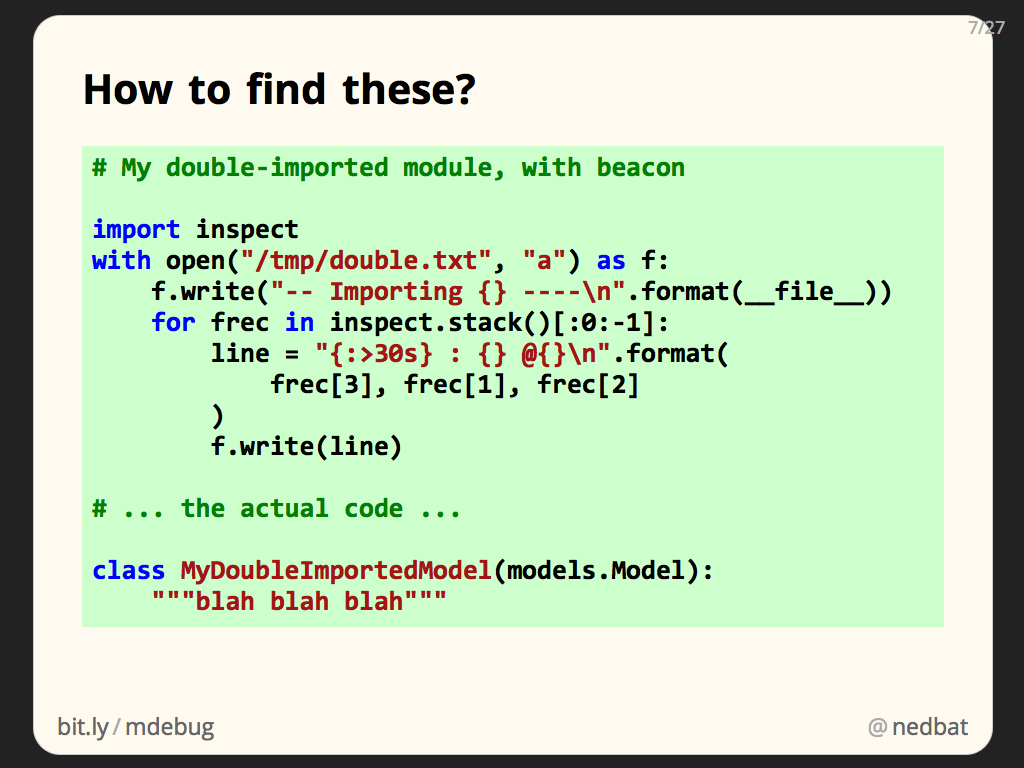
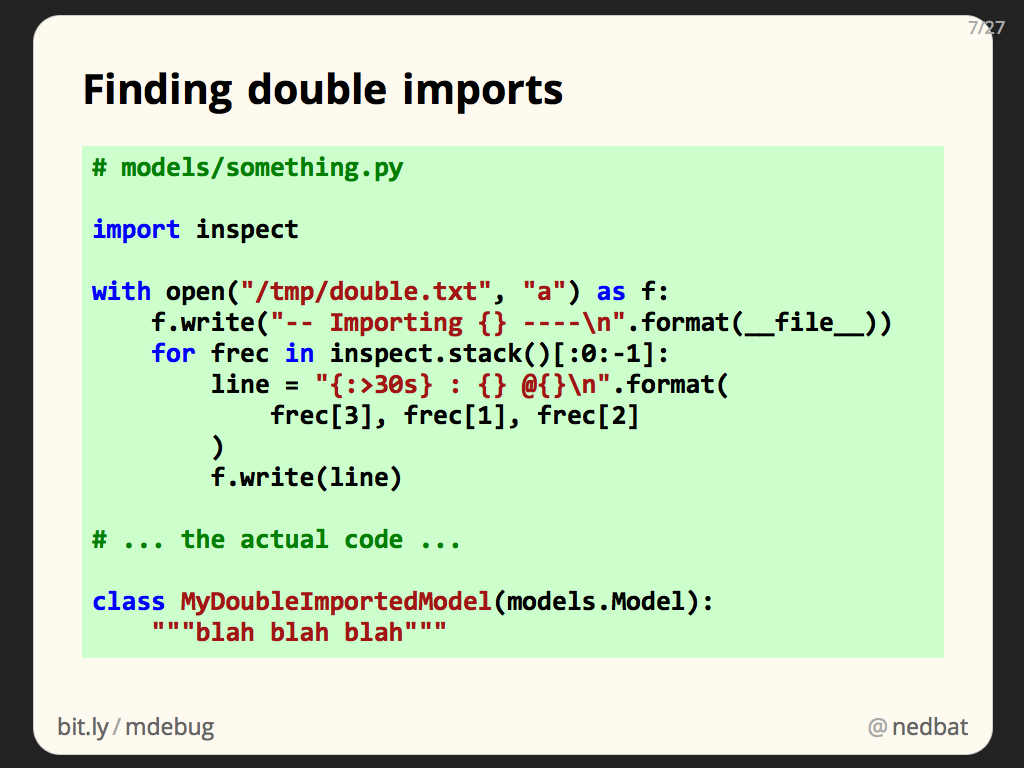
Edits from the plane

Changed region(s): [[0.0625, 0.3125, 0.9375, 0.875], [0.125, 0.1875, 0.6562, 0.25], [0.0938, 0.0938, 0.5625, 0.1562]]

diff --git a/pages/text/machete/machete.html b/pages/text/machete/machete.html
@@ -67,10 +67,12 @@
                 });
             }
 
+            // Syntax-color the preformatted blocks.
             $('pre').each(function (i, block) {
                 hljs.highlightBlock(block, '    ');
             });
 
+            // Convert each preformatted block into a series of span.line's.
             $('pre').each(function (i, e) {
                 var $e = $(e);
                 var h = $e.html();
@@ -80,6 +82,24 @@
                 $e.html(h);
             });
 
+            // Remove the line class in faded code blocks, except for those marked dark.
+            $("pre.fade span.line").each(function (i, e) {
+                var $e = $(e);
+                var dark = $e.find(".dark");
+                if (dark.length == 0) {
+                    $e.removeClass("line");
+                }
+            });
+
+            // Remove the .line class from blank lines, they aren't interesting to highlight.
+            $("pre span.line").each(function (i, e) {
+                var $e = $(e);
+                if ($e.text().trim().length == 0) {
+                    $e.removeClass("line");
+                }
+            });
+
+            // Make all the code block lines be selectable.
             $("div.slide").lineselect({ lines: "pre span.line" });
 
             // Pre-select lines based on a select= attribute.
@@ -211,7 +231,7 @@
             color: #999;
         }
 
-        pre .red {
+        pre .dark.red {
             color: #f00;
         }
 
@@ -482,11 +502,12 @@ understand it.</p>
 </div><!-- }}} -->
 
 <div class="slide">
-    <h1>How to find these?</h1>
+    <h1>Finding double imports</h1>
     <pre class="python">
-    # My double-imported module, with beacon
+    # models/something.py
 
     import inspect
+
     with open("/tmp/double.txt", "a") as f:
         f.write("-- Importing {} ----\n".format(__file__))
         for frec in inspect.stack()[:0:-1]:
@@ -544,32 +565,7 @@ with the right ways, and this code is only temporary.</p>
 <div class="slide">
     <h1>Results</h1>
 
-    <div style="position: relative">    <!-- make the containing divs appear in the same place. -->
-    <pre class="smaller lang-text" style="position: absolute">
-    -- Importing project/thing/apps/first/models.py ----
-                &lt;module> : manage.py @112
-                     run : project/thing/startup.py @50
-                   setup : django/__init__.py @18
-                populate : django/apps/registry.py @108
-           import_models : django/apps/config.py @198
-           import_module : /usr/lib/python2.7/importlib/__init__.py @37
-                &lt;module> : project/other/apps/one/compute.py @36
-                &lt;module> : project/thing/apps/second/courses.py @25
-                &lt;module> : project/thing/apps/second/summary.py @18
-
-    -- Importing project/thing/apps/first/models.pyc ----
-                &lt;module> : manage.py @112
-                     run : project/thing/startup.py @50
-                   setup : django/__init__.py @18
-                populate : django/apps/registry.py @115
-                   ready : django/contrib/admin/apps.py @22
-            autodiscover : django/contrib/admin/__init__.py @24
-    autodiscover_modules : django/utils/module_loading.py @74
-           import_module : /usr/lib/python2.7/importlib/__init__.py @37
-                &lt;module> : project/thing/apps/first/admin.py @29
-    </pre>
-
-    <pre class="smaller fade lang-text incremental" style="position: absolute">
+    <pre class="smaller fade lang-text">
     <span class="dark">-- Importing project/thing/apps/first/models.py ----</span>
                 &lt;module> : manage.py @112
                      run : project/thing/startup.py @50
@@ -592,7 +588,6 @@ with the right ways, and this code is only temporary.</p>
            import_module : /usr/lib/python2.7/importlib/__init__.py @37
                 <span class="dark">&lt;module> : project/thing/apps/first/admin.py @29</span>
     </pre>
-    </div>
 </div>
 
 <div class="text"><!-- {{{ -->
@@ -611,46 +606,40 @@ trace: second/summary.py and first/admin.py</p>
 
 
 <div class="slide">
-    <h1>Tangled imports</h1>
+    <h1>Overlapping sys.path</h1>
     <pre class="python incremental">
     import thing.apps.first.models             
                                    import first.models
     </pre>
 
-    <div style="position: static">
-    <div style="position: relative; height: 12em;">
-    <pre class="incremental" style="position: absolute; width:100%">
-    project **
-    ├── thing
-    │   └── apps **
-    │       ├── first/
-    │       │   └── models.py
+    <pre style="float:left; margin-right: 2em; width: 45%" class="fade incremental">
+    <span class="dark red">project **</span>
+    ├── <span class="dark">thing</span>
+    │   └── <span class="dark">apps</span> **
+    │       ├── <span class="dark">first</span>/
+    │       │   └── <span class="dark">models.py</span>
     │       └── second/
     └── other
         └── apps **
             └── one/
     </pre>
-    <!-- ugh, what a pain... -->
-    <pre class="fade incremental" style="position: absolute">
-    <span class="red">project</span> <span class="red">**</span>                     project **
-    ├── <span class="dark">thing</span>                      ├── thing
-    │   └── <span class="dark">apps</span> **                │   └── <span class="red">apps</span> <span class="red">**</span>
-    │       ├── <span class="dark">first</span>/             │       ├── <span class="dark">first</span>/
-    │       │   └── <span class="dark">models.py</span>      │       │   └── <span class="dark">models.py</span>
-    │       └── second/            │       └── second/
-    └── other                      └── other
-        └── apps **                    └── apps **
-            └── one/                       └── one/
-    </pre>
-    </div>
-    </div>
 
-    <div style="position: static">
+    <pre class="fade incremental">
+    project **
+    ├── thing
+    │   └── <span class="dark red">apps **</span>
+    │       ├── <span class="dark">first</span>/
+    │       │   └── <span class="dark">models.py</span>
+    │       └── second/
+    └── other
+        └── apps **
+            └── one/
+    </pre>
+
     <pre class="python incremental" >
     sys.path.append("thing/apps")
     sys.path.append("other/apps")
     </pre>
-    </div>
 
 </div>
 
@@ -786,6 +775,7 @@ essentially arbitrary anyway, so we can write information there.</p>
     </pre>
     <ul>
     <li class="incremental"><b>Any</b> name can be re-assigned</li>
+    <li class="incremental"><b>Very</b> chaotic</li>
     </ul>
 </div>
 
@@ -818,9 +808,9 @@ other parts of your program are using.  It can also be dangerously chaotic.</p>
 <div class="slide">
     <h1>Read the source!</h1>
     <ul>
-    <li class="incremental">A handful of different functions</li>
-    <li class="incremental">We only want to tweak the file names</li>
-    <li class="incremental">They all call <span class="code">_get_candidate_names</span></li>
+    <li class="incremental">Handful of different functions</li>
+    <li class="incremental">Only want to tweak the file names</li>
+    <li class="incremental"><span class="code">_get_candidate_names</span></li>
     </ul>
     <pre class="python incremental">
     # Lib/tempfile.py
@@ -830,6 +820,12 @@ other parts of your program are using.  It can also be dangerously chaotic.</p>
         names = _get_candidate_names()  # ☜ AHA! ☜
         for name in names:
             # ... try making the file ...
+    </pre>
+    <pre class="incremental">
+        Mp4lll
+            QJmhMA
+                N9UYmz
+                    qqdTX3 ....
     </pre>
 </div>
 
@@ -858,12 +854,13 @@ the files, or what details they return.</p>
 <div class="slide">
     <h1>Running code on startup</h1>
     <ul>
+    <li class="incremental">Have to monkeypatch early</li>
     <li class="incremental">Python has no feature</li>
     <li class="incremental">site-packages/*.pth</li>
     </ul>
     <pre class="incremental python">
     # Lib/site.py, in the stdlib
-    ...
+
     for line in the_pth_file:
         if line.startswith("import "):
             exec line
@@ -913,14 +910,13 @@ code is run even before other .pth files are processed.</p>
 <div class="slide">
     <h1>The sneak</h1>
     <pre class="python">
+    # first_thing.py
     real_get_candidate_names = tempfile._get_candidate_names
 
     def my_get_candidate_names():
         stack = "-".join(
-            "{}{}".format(
-                os.path.basename(t[1]).replace(".py", ""),
-                t[2],
-            )
+            os.path.basename(t[1]).replace(".py", "") + 
+                str(t[2])
             for t in inspect.stack()[4:1:-1]
         )
         for name in real_get_candidate_names():
@@ -953,7 +949,7 @@ that makes temporary files will have our stack traces in their file names.</p>
     <h1><span class="fist">☞</span> Lessons <span class="fist">☜</span></h1>
     <ul>
     <li class="incremental">Std lib is readable</li>
-    <li class="incremental">Std lib is patchable!</li>
+    <li class="incremental">Std lib is patchable</li>
     <li class="incremental">Use whatever you can touch and change</li>
     <li class="incremental spaced"><b>Do</b> use addCleanup</li>
     </ul>
@@ -1009,6 +1005,7 @@ that makes temporary files will have our stack traces in their file names.</p>
     <ul>
     <li class="incremental">sys.path being modified incorrectly</li>
     <li class="incremental">grep didn't find it</li>
+    <li class="incremental">Must be in third-party?</li>
     </ul>
 </div>
 
@@ -1047,7 +1044,7 @@ third-party modules we were using.  How to find the culprit?</p>
     sys.settrace(trace)
     </pre>
     <ul>
-    <li class="incremental">It was nose</li>
+    <li class="incremental">Found it: nose</li>
     </ul>
 </div>
 
@@ -1151,13 +1148,11 @@ so it was easy for us to disable.</p>
     <li class="incremental">Randomized, but repeatable problems</li>
     </ul>
     <pre class="python incremental">
-    # Prepare to run instructor code
+    # Prepare to run problem code
     random.seed(1702)       # student.seed
     </pre>
     <pre class="python incremental">
-    # Instructor code
-    import foo, bar, baz
-
+    # Problem code
     print(random.randint(1, 1000))      # 420?
     </pre>
     <ul>
@@ -1195,17 +1190,18 @@ value was being consumed from the sequence. But where?</p>
 
 <div class="slide">
     <h1>1/0</h1>
+    <ul>
+    <li class="incremental">Easy to drop in</li>
+    <li class="incremental">Unlikely exception: ZeroDivisionError</li>
+    <li class="incremental">Easy to spot</li>
+    <li class="incremental">Favorite three-character expression</li>
+    </ul>
     <pre class="incremental python">
+    # monkey-patch random with a trap
     import random
     random.random = lambda: 1/0
     </pre>
 
-    <ul>
-    <li class="incremental">Easy to drop in</li>
-    <li class="incremental">Unlikely exception</li>
-    <li class="incremental">Easy to spot</li>
-    <li class="incremental">My favorite three Python characters!</li>
-    </ul>
 </div>
 
 <div class="text"><!-- {{{ -->
@@ -1273,7 +1269,8 @@ value for that argument.</p>
     <ul>
     <li class="incremental">Exceptions are a good way to get information</li>
     <li class="incremental">Don't be afraid to blow things up</li>
-    <li class="incremental spaced"><b>Don't</b> use global state</li>
+    <li class="incremental">Sometimes you get lucky</li>
+    <li class="incremental spaced"><b>Don't</b> share global state</li>
     <li class="incremental"><b>Do</b> use your own Random object</li>
     <li class="incremental"><b>Do</b> suspect third-party code</li>
     </ul>
@@ -1291,8 +1288,12 @@ value for that argument.</p>
     <li>Don't be afraid to blow things up: in this case, the monkeypatch
     destroys the program, but it gives us useful information.</li>
 
+    <li>Some of these techniques require a bit of luck: if the offending call
+    to random() wasn't the first one, we wouldn't have found it, because our
+    booby trap stops the program on the first call.</li>
+
     <li>Avoid mutating globals.  One of the causes of this problem was that our
-    code, and the third-party code, was using a single global random number
+    code, and the third-party code, were using a single global random number
     sequence.  We were sharing global mutable state.  The best solution to this
     problem was to create our own private Random instance, and use that.  Then
     we could be sure that we were getting numbers from the sequence we
@@ -1320,7 +1321,7 @@ value for that argument.</p>
     <h1 style="padding-top: 0em; font-size: 150%; font-weight: 700"><span class="fist">☞☞</span> Big Lessons <span class="fist">☜☜</span></h1>
     <ul>
     <li class="incremental">Break conventions to get what you need</li>
-    <li class="incremental">But only for debugging</li>
+    <li class="incremental">But only for debugging!</li>
     <li class="incremental">Dynamic analysis</li>
     <li class="incremental">Understand Python!</li>
     </ul>
